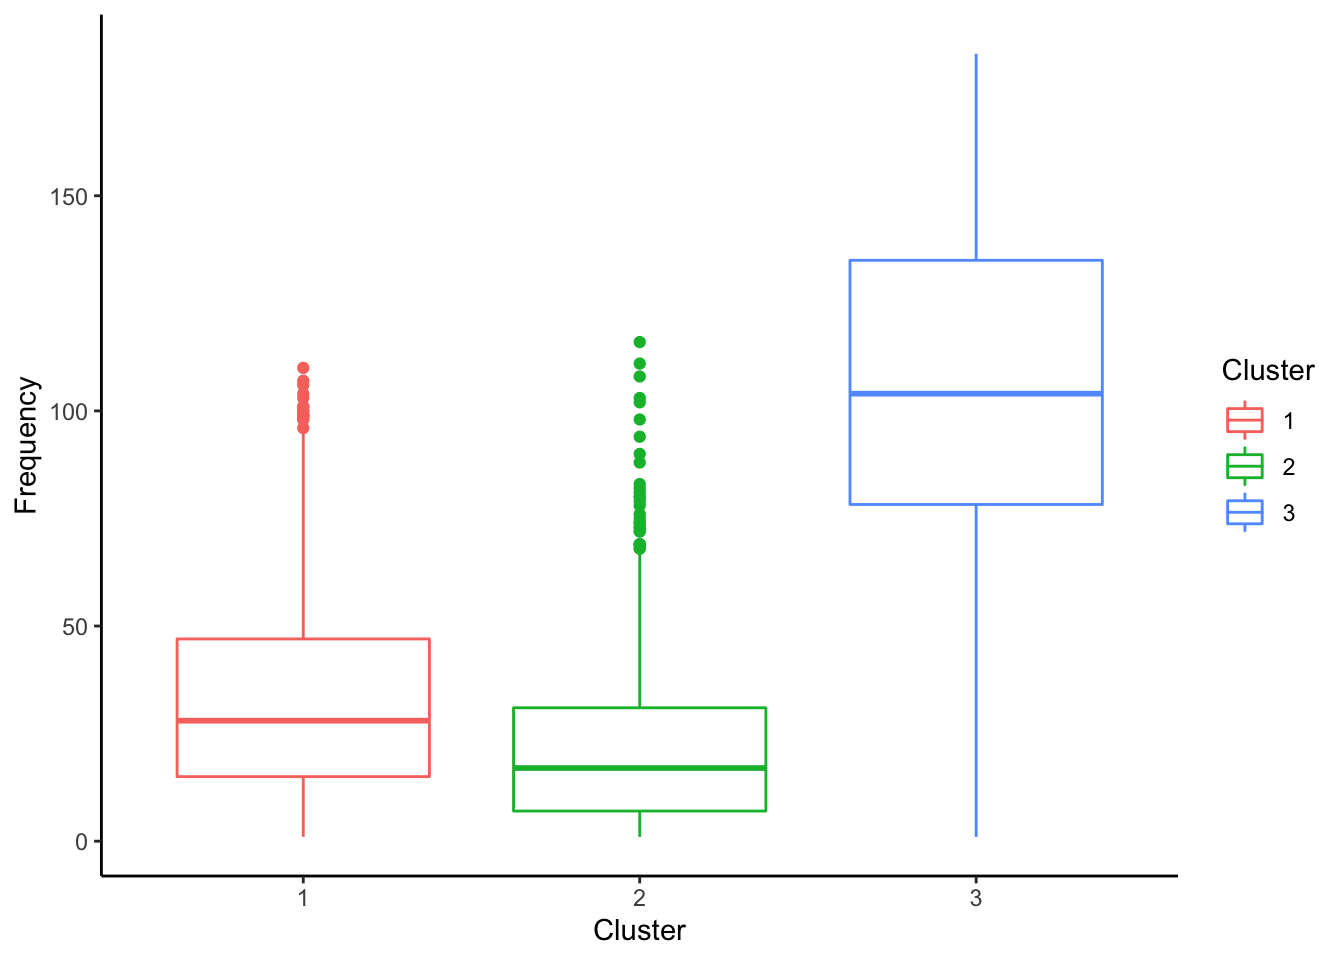
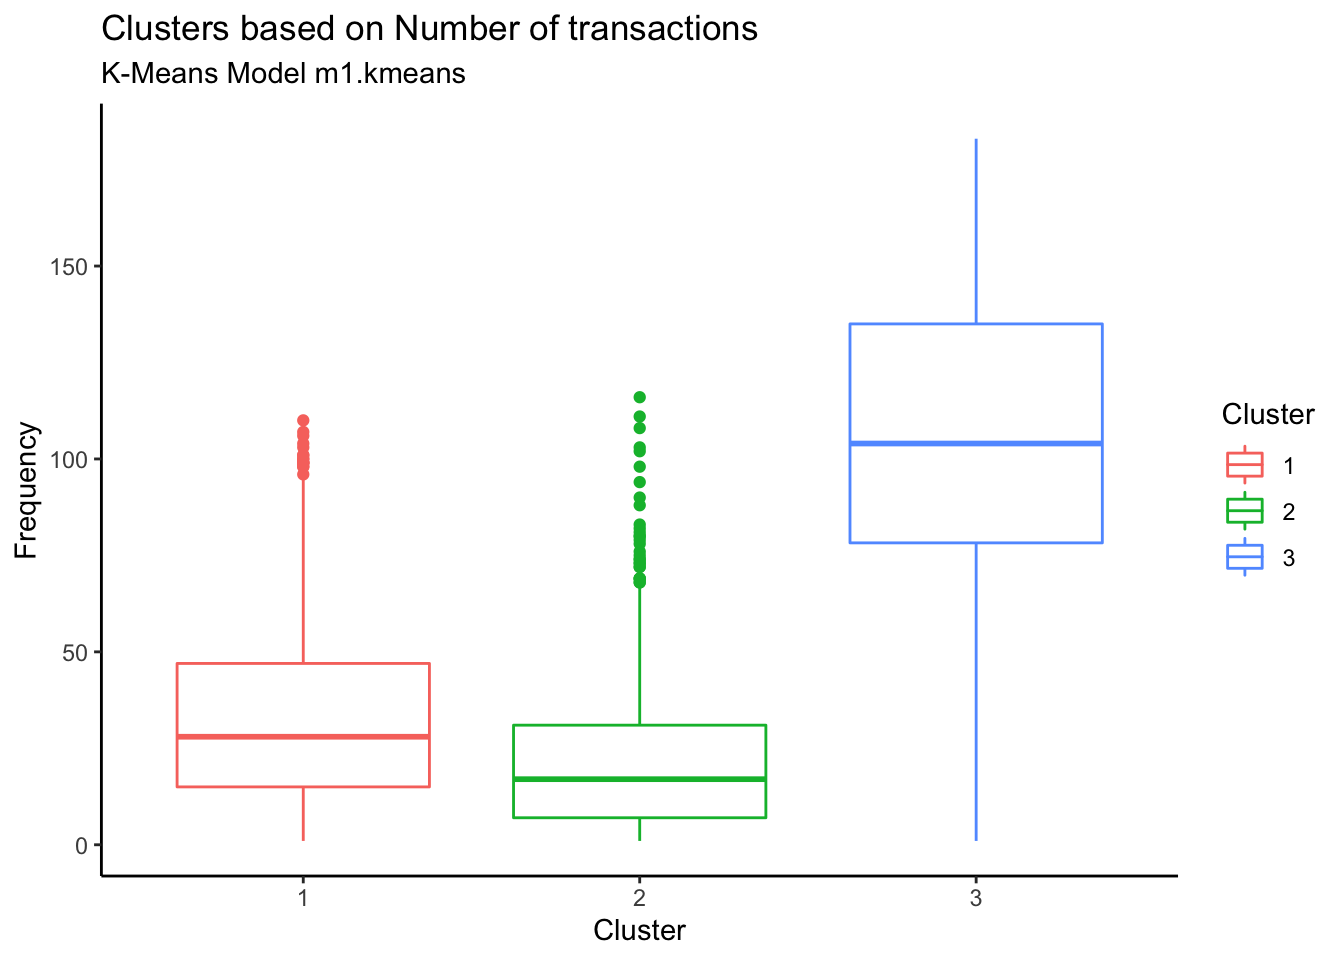
Anand's Changes

diff --git a/index.html b/index.html
@@ -781,6 +781,7 @@ K = 3
 </section>
 <section id="k-means-model" class="level3" data-number="3.5.2">
 <h3 data-number="3.5.2" class="anchored" data-anchor-id="k-means-model"><span class="header-section-number">3.5.2</span> K-Means Model</h3>
+<p>Now, we will create the K-Means model for K = 3.</p>
 <div class="cell">
 <details>
 <summary>Code</summary>
@@ -796,6 +797,7 @@ K = 3
 <span id="cb15-10"><a href="#cb15-10" aria-hidden="true" tabindex="-1"></a>customer<span class="sc">$</span>Cluster <span class="ot">&lt;-</span> <span class="fu">as.factor</span>(m1.kmean<span class="sc">$</span>cluster)</span></code><button title="Copy to Clipboard" class="code-copy-button"><i class="bi"></i></button></pre></div>
 </details>
 </div>
+<p>From the above model, we can observe that 3 clusters are formed with sizes 1807, 953, 914.</p>
 <p>Now, we can extract the clusters and add to our initial data to do some descriptive statistics at the cluster level. Below table summarizes the original dataset grouped by clusters to show the mean of the variables:</p>
 <div class="cell">
 <details>
@@ -929,21 +931,24 @@ K = 3
 <div class="cell">
 <details>
 <summary>Code</summary>
-<div class="sourceCode cell-code" id="cb22"><pre class="sourceCode r code-with-copy"><code class="sourceCode r"><span id="cb22-1"><a href="#cb22-1" aria-hidden="true" tabindex="-1"></a>customer <span class="sc">%&gt;%</span> <span class="fu">ggplot</span>(<span class="fu">aes</span>(<span class="at">x=</span>Cluster, <span class="at">y=</span>Amount, <span class="at">color=</span>Cluster)) <span class="sc">+</span> <span class="fu">geom_boxplot</span>()<span class="sc">+</span>  <span class="fu">theme_classic</span>()</span></code><button title="Copy to Clipboard" class="code-copy-button"><i class="bi"></i></button></pre></div>
+<div class="sourceCode cell-code" id="cb22"><pre class="sourceCode r code-with-copy"><code class="sourceCode r"><span id="cb22-1"><a href="#cb22-1" aria-hidden="true" tabindex="-1"></a>customer <span class="sc">%&gt;%</span> <span class="fu">ggplot</span>(<span class="fu">aes</span>(<span class="at">x=</span>Cluster, <span class="at">y=</span>Amount, <span class="at">color=</span>Cluster)) <span class="sc">+</span> <span class="fu">geom_boxplot</span>()<span class="sc">+</span>  <span class="fu">theme_classic</span>()  <span class="sc">+</span> </span>
+<span id="cb22-2"><a href="#cb22-2" aria-hidden="true" tabindex="-1"></a>  <span class="fu">labs</span>(<span class="at">title =</span> <span class="st">"Clusters based on Amount Spent"</span>, <span class="at">subtitle =</span> <span class="st">"K-Means Model m1.kmeans"</span>)</span></code><button title="Copy to Clipboard" class="code-copy-button"><i class="bi"></i></button></pre></div>
 </details>
 <div class="cell-output-display">
 <p><img src="index_files/figure-html/unnamed-chunk-28-1.png" class="img-fluid" width="672"></p>
 </div>
 <details>
 <summary>Code</summary>
-<div class="sourceCode cell-code" id="cb23"><pre class="sourceCode r code-with-copy"><code class="sourceCode r"><span id="cb23-1"><a href="#cb23-1" aria-hidden="true" tabindex="-1"></a>customer <span class="sc">%&gt;%</span> <span class="fu">ggplot</span>(<span class="fu">aes</span>(<span class="at">x=</span>Cluster, <span class="at">y=</span>Frequency, <span class="at">color=</span>Cluster)) <span class="sc">+</span> <span class="fu">geom_boxplot</span>() <span class="sc">+</span>  <span class="fu">theme_classic</span>()</span></code><button title="Copy to Clipboard" class="code-copy-button"><i class="bi"></i></button></pre></div>
+<div class="sourceCode cell-code" id="cb23"><pre class="sourceCode r code-with-copy"><code class="sourceCode r"><span id="cb23-1"><a href="#cb23-1" aria-hidden="true" tabindex="-1"></a>customer <span class="sc">%&gt;%</span> <span class="fu">ggplot</span>(<span class="fu">aes</span>(<span class="at">x=</span>Cluster, <span class="at">y=</span>Frequency, <span class="at">color=</span>Cluster)) <span class="sc">+</span> <span class="fu">geom_boxplot</span>() <span class="sc">+</span>  <span class="fu">theme_classic</span>() <span class="sc">+</span> </span>
+<span id="cb23-2"><a href="#cb23-2" aria-hidden="true" tabindex="-1"></a>  <span class="fu">labs</span>(<span class="at">title =</span> <span class="st">"Clusters based on Number of transactions"</span>, <span class="at">subtitle =</span> <span class="st">"K-Means Model m1.kmeans"</span>)</span></code><button title="Copy to Clipboard" class="code-copy-button"><i class="bi"></i></button></pre></div>
 </details>
 <div class="cell-output-display">
 <p><img src="index_files/figure-html/unnamed-chunk-28-2.png" class="img-fluid" width="672"></p>
 </div>
 <details>
 <summary>Code</summary>
-<div class="sourceCode cell-code" id="cb24"><pre class="sourceCode r code-with-copy"><code class="sourceCode r"><span id="cb24-1"><a href="#cb24-1" aria-hidden="true" tabindex="-1"></a>customer <span class="sc">%&gt;%</span> <span class="fu">ggplot</span>(<span class="fu">aes</span>(<span class="at">x=</span>Cluster, <span class="at">y=</span>LastSeen, <span class="at">color=</span>Cluster)) <span class="sc">+</span> <span class="fu">geom_boxplot</span>() <span class="sc">+</span>  <span class="fu">theme_classic</span>()</span></code><button title="Copy to Clipboard" class="code-copy-button"><i class="bi"></i></button></pre></div>
+<div class="sourceCode cell-code" id="cb24"><pre class="sourceCode r code-with-copy"><code class="sourceCode r"><span id="cb24-1"><a href="#cb24-1" aria-hidden="true" tabindex="-1"></a>customer <span class="sc">%&gt;%</span> <span class="fu">ggplot</span>(<span class="fu">aes</span>(<span class="at">x=</span>Cluster, <span class="at">y=</span>LastSeen, <span class="at">color=</span>Cluster)) <span class="sc">+</span> <span class="fu">geom_boxplot</span>() <span class="sc">+</span>  <span class="fu">theme_classic</span>() <span class="sc">+</span> </span>
+<span id="cb24-2"><a href="#cb24-2" aria-hidden="true" tabindex="-1"></a>  <span class="fu">labs</span>(<span class="at">title =</span> <span class="st">"Clusters based on customer last seen shopping"</span>, <span class="at">subtitle =</span> <span class="st">"K-Means Model m1.kmeans"</span>)</span></code><button title="Copy to Clipboard" class="code-copy-button"><i class="bi"></i></button></pre></div>
 </details>
 <div class="cell-output-display">
 <p><img src="index_files/figure-html/unnamed-chunk-28-3.png" class="img-fluid" width="672"></p>
